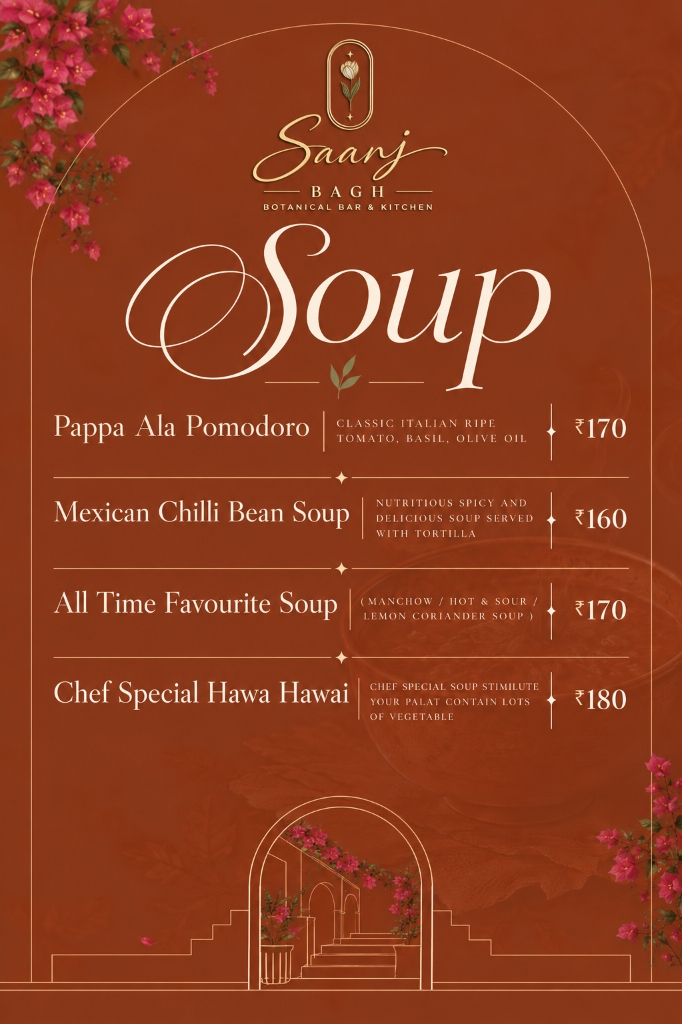
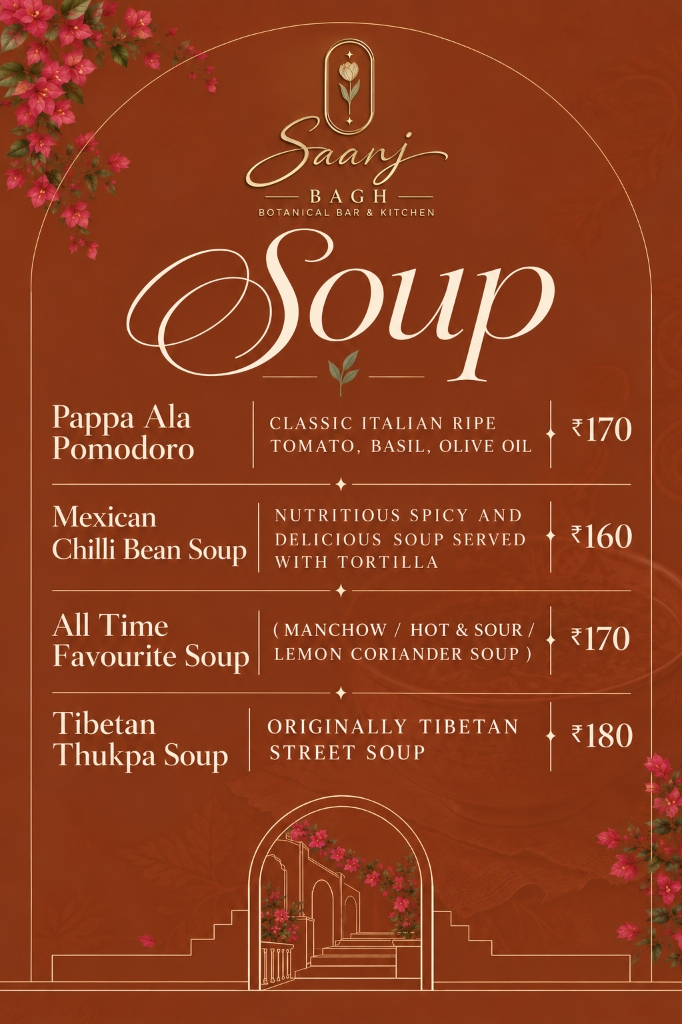
Update menu sequence to Food Beverage Bar Cocktail and update Soup page

diff --git a/index.html b/index.html
@@ -20,7 +20,7 @@
     }
   </script>
   <link rel="icon" type="image/jpeg" href="assets/images/saanj-bagh-logo.jpg">
-  <link rel="stylesheet" href="styles.css?v=20261021d">
+  <link rel="stylesheet" href="styles.css?v=20261021f">
   <script>
     // Early Synchronous View Routing Detector (prevents visual flashing)
     (function() {
@@ -42,7 +42,7 @@
        ============================================================ -->
   <main class="menu-viewport" id="menuViewport">
     
-    <!-- Luxury Saanj Bagh 4-Way Menu Switcher: FOOD MENU | BAR MENU | COCKTAIL MENU | BEVERAGES -->
+    <!-- Luxury Saanj Bagh 4-Way Menu Switcher: FOOD MENU | BEVERAGES | BAR MENU | COCKTAIL MENU -->
     <nav class="menu-switcher-nav" aria-label="Menu experience selector">
       <div class="menu-switcher-pill" role="tablist">
         <button class="menu-switch-btn active" id="btnFoodMenu" role="tab" aria-selected="true" type="button">
@@ -50,6 +50,11 @@
           <span class="switch-label">FOOD MENU</span>
         </button>
         <div class="switch-divider switch-divider-food" aria-hidden="true"></div>
+        <button class="menu-switch-btn" id="btnBeveragesMenu" role="tab" aria-selected="false" type="button">
+          <span class="switch-bullet" aria-hidden="true">✦</span>
+          <span class="switch-label">BEVERAGES</span>
+        </button>
+        <div class="switch-divider switch-divider-beverages" aria-hidden="true"></div>
         <button class="menu-switch-btn" id="btnBarMenu" role="tab" aria-selected="false" type="button">
           <span class="switch-bullet" aria-hidden="true">✦</span>
           <span class="switch-label">BAR MENU</span>
@@ -58,11 +63,6 @@
         <button class="menu-switch-btn" id="btnCocktailMenu" role="tab" aria-selected="false" type="button">
           <span class="switch-bullet" aria-hidden="true">✦</span>
           <span class="switch-label">COCKTAIL MENU</span>
-        </button>
-        <div class="switch-divider switch-divider-cocktail" aria-hidden="true"></div>
-        <button class="menu-switch-btn" id="btnBeveragesMenu" role="tab" aria-selected="false" type="button">
-          <span class="switch-bullet" aria-hidden="true">✦</span>
-          <span class="switch-label">BEVERAGES</span>
         </button>
       </div>
     </nav>
@@ -206,7 +206,7 @@
           
           <!-- Soup Menu Replacement Artwork -->
           <img 
-            src="assets/images/soup.jpg" 
+            src="assets/images/soup.jpg?v=20261021e" 
             alt="Saanj Bagh — Botanical Bar & Kitchen Luxury Soup Menu" 
             class="menu-artwork-img"
             id="soupArtwork"
@@ -718,8 +718,8 @@
         <span>Price: ₹170</span>
       </article>
       <article>
-        <h3>04 — Chef's Special: Hawa Hawai</h3>
-        <p>A chef's special soup featuring a generous medley of vegetables.</p>
+        <h3>04 — Tibetan Thukpa Soup</h3>
+        <p>Originally Tibetan street soup.</p>
         <span>Price: ₹180</span>
       </article>
     </section>
@@ -1157,6 +1157,59 @@
       </article>
     </section>
 
+    <!-- Beverages Menu Semantic Content -->
+    <section aria-label="Beverages Menu — Coffee, Shakes, Smoothies &amp; Refreshments">
+      <h2>Saanj Bagh — Beverages Menu</h2>
+
+      <h3>Hot Coffee</h3>
+      <article><p>Classic Espresso — ₹149 (Arabica Coffee Beans, Water)</p></article>
+      <article><p>Americano — ₹199 (Arabica Coffee Beans, Hot Water)</p></article>
+      <article><p>Cortado — ₹219 (Espresso, Steamed Milk)</p></article>
+      <article><p>Flat White — ₹219 (Double Espresso, Micro-foam Milk)</p></article>
+      <article><p>Cappuccino — ₹199 (Espresso, Steamed Milk, Milk Foam)</p></article>
+      <article><p>Café Latte — ₹199 (Espresso, Steamed Milk)</p></article>
+      <article><p>Vanilla Bean Latte — ₹249 (Espresso, Milk, Vanilla Bean Syrup)</p></article>
+      <article><p>Dark Chocolate Mocha — ₹249 (Espresso, Milk, Dark Chocolate Sauce)</p></article>
+
+      <h3>Cold Coffee</h3>
+      <article><p>Iced Americano — ₹249 (Espresso, Cold Water, Ice)</p></article>
+      <article><p>Classic Cold Brew — ₹349 (Coarse Ground Coffee, Filtered Water, Ice)</p></article>
+      <article><p>Nitro Cold Brew — ₹349 (Cold Brew Coffee, Nitrogen Gas)</p></article>
+      <article><p>Iced Caramel Macchiato — ₹349 (Espresso, Milk, Ice, Caramel Sauce)</p></article>
+      <article><p>Iced Hazelnut Latte — ₹349 (Espresso, Cold Milk, Ice, Hazelnut Syrup)</p></article>
+      <article><p>Vietnamese Iced Coffee — ₹349 (Dark Roast Coffee, Condensed Milk, Ice)</p></article>
+      <article><p>Affogato — ₹349 (Double Espresso, Vanilla Ice Cream)</p></article>
+
+      <h3>Shakes</h3>
+      <article><p>Vanilla Bean Shake — ₹349 (Vanilla Ice Cream, Whole Milk)</p></article>
+      <article><p>Double Chocolate Fudge Shake — ₹349 (Chocolate Ice Cream, Milk, Hot Fudge)</p></article>
+      <article><p>Fresh Strawberry Shake — ₹349 (Strawberry Ice Cream, Milk, Real Strawberries)</p></article>
+      <article><p>Oreo Cookies &amp; Cream Shake — ₹349 (Vanilla Ice Cream, Milk, Oreo Cookies)</p></article>
+      <article><p>Mango Shake — ₹349 (Vanilla Ice Cream, Milk, Mango Puree)</p></article>
+      <article><p>Saanjh Bagh Signature Royal Shake — ₹349 (Vanilla Ice Cream, Milk, Saffron, Dates, Almonds)</p></article>
+      <article><p>Salted Caramel Pretzel Shake — ₹349 (Vanilla Ice Cream, Milk, Caramel, Sea Salt, Pretzels)</p></article>
+      <article><p>Nutella Hazelnut Shake — ₹349 (Chocolate Ice Cream, Milk, Nutella, Roasted Hazelnuts)</p></article>
+      <article><p>Lotus Biscoff Shake — ₹349 (Vanilla Ice Cream, Milk, Biscoff Spread, Crumbs)</p></article>
+      <article><p>Brownie Batter Shake — ₹349 (Chocolate Ice Cream, Milk, Brownie Chunks, Chocolate)</p></article>
+
+      <h3>Smoothies</h3>
+      <article><p>Mixed Berry Blast — ₹349 (Strawberries, Blueberries, Yogurt, Honey, Almond Milk)</p></article>
+      <article><p>Tropical Mango &amp; Passionfruit — ₹349 (Mango, Passionfruit Pulp, Greek Yogurt, Coconut Water)</p></article>
+      <article><p>Green Detox — ₹349 (Spinach, Green Apple, Kiwi, Mint, Coconut Water)</p></article>
+      <article><p>Banana Oat &amp; Honey — ₹349 (Banana, Rolled Oats, Honey, Cinnamon, Almond Milk)</p></article>
+      <article><p>Piña Colada Smoothie — ₹349 (Pineapple Chunks, Coconut Cream, Banana, Coconut Milk)</p></article>
+
+      <h3>Beverages</h3>
+      <article><p>Mineral Water — ₹149</p></article>
+      <article><p>Coke — ₹149</p></article>
+      <article><p>Thums Up — ₹149</p></article>
+      <article><p>Diet Coke — ₹199</p></article>
+      <article><p>Ginger Ale — ₹149</p></article>
+      <article><p>Tonic Water — ₹149</p></article>
+      <article><p>Red Bull — ₹299</p></article>
+      <article><p>Canned Juice — ₹149</p></article>
+    </section>
+
     <!-- Bar Menu Semantic Content -->
     <section aria-label="Bar Menu — Spirits, Wine & Beer">
       <h2>Saanj Bagh — Bar Menu</h2>
@@ -1276,62 +1329,9 @@
       <article><p>Tennessee Iced Tea (Strong) — ₹675 (Vodka, Rum, Gin, Tequila, Triple Sec, Jack Daniel's, Lemon Juice, Simple, Top with Cola)</p></article>
       <article><p>Hawaiian Iced Tea (Tropical) — ₹999 (Vodka, Rum, Gin, Tequila, Triple Sec, Lemon Juice, Top with Pineapple Juice)</p></article>
     </section>
-
-    <!-- Beverages Menu Semantic Content -->
-    <section aria-label="Beverages Menu — Coffee, Shakes, Smoothies &amp; Refreshments">
-      <h2>Saanj Bagh — Beverages Menu</h2>
-
-      <h3>Hot Coffee</h3>
-      <article><p>Classic Espresso — ₹149 (Arabica Coffee Beans, Water)</p></article>
-      <article><p>Americano — ₹199 (Arabica Coffee Beans, Hot Water)</p></article>
-      <article><p>Cortado — ₹219 (Espresso, Steamed Milk)</p></article>
-      <article><p>Flat White — ₹219 (Double Espresso, Micro-foam Milk)</p></article>
-      <article><p>Cappuccino — ₹199 (Espresso, Steamed Milk, Milk Foam)</p></article>
-      <article><p>Café Latte — ₹199 (Espresso, Steamed Milk)</p></article>
-      <article><p>Vanilla Bean Latte — ₹249 (Espresso, Milk, Vanilla Bean Syrup)</p></article>
-      <article><p>Dark Chocolate Mocha — ₹249 (Espresso, Milk, Dark Chocolate Sauce)</p></article>
-
-      <h3>Cold Coffee</h3>
-      <article><p>Iced Americano — ₹249 (Espresso, Cold Water, Ice)</p></article>
-      <article><p>Classic Cold Brew — ₹349 (Coarse Ground Coffee, Filtered Water, Ice)</p></article>
-      <article><p>Nitro Cold Brew — ₹349 (Cold Brew Coffee, Nitrogen Gas)</p></article>
-      <article><p>Iced Caramel Macchiato — ₹349 (Espresso, Milk, Ice, Caramel Sauce)</p></article>
-      <article><p>Iced Hazelnut Latte — ₹349 (Espresso, Cold Milk, Ice, Hazelnut Syrup)</p></article>
-      <article><p>Vietnamese Iced Coffee — ₹349 (Dark Roast Coffee, Condensed Milk, Ice)</p></article>
-      <article><p>Affogato — ₹349 (Double Espresso, Vanilla Ice Cream)</p></article>
-
-      <h3>Shakes</h3>
-      <article><p>Vanilla Bean Shake — ₹349 (Vanilla Ice Cream, Whole Milk)</p></article>
-      <article><p>Double Chocolate Fudge Shake — ₹349 (Chocolate Ice Cream, Milk, Hot Fudge)</p></article>
-      <article><p>Fresh Strawberry Shake — ₹349 (Strawberry Ice Cream, Milk, Real Strawberries)</p></article>
-      <article><p>Oreo Cookies &amp; Cream Shake — ₹349 (Vanilla Ice Cream, Milk, Oreo Cookies)</p></article>
-      <article><p>Mango Shake — ₹349 (Vanilla Ice Cream, Milk, Mango Puree)</p></article>
-      <article><p>Saanjh Bagh Signature Royal Shake — ₹349 (Vanilla Ice Cream, Milk, Saffron, Dates, Almonds)</p></article>
-      <article><p>Salted Caramel Pretzel Shake — ₹349 (Vanilla Ice Cream, Milk, Caramel, Sea Salt, Pretzels)</p></article>
-      <article><p>Nutella Hazelnut Shake — ₹349 (Chocolate Ice Cream, Milk, Nutella, Roasted Hazelnuts)</p></article>
-      <article><p>Lotus Biscoff Shake — ₹349 (Vanilla Ice Cream, Milk, Biscoff Spread, Crumbs)</p></article>
-      <article><p>Brownie Batter Shake — ₹349 (Chocolate Ice Cream, Milk, Brownie Chunks, Chocolate)</p></article>
-
-      <h3>Smoothies</h3>
-      <article><p>Mixed Berry Blast — ₹349 (Strawberries, Blueberries, Yogurt, Honey, Almond Milk)</p></article>
-      <article><p>Tropical Mango &amp; Passionfruit — ₹349 (Mango, Passionfruit Pulp, Greek Yogurt, Coconut Water)</p></article>
-      <article><p>Green Detox — ₹349 (Spinach, Green Apple, Kiwi, Mint, Coconut Water)</p></article>
-      <article><p>Banana Oat &amp; Honey — ₹349 (Banana, Rolled Oats, Honey, Cinnamon, Almond Milk)</p></article>
-      <article><p>Piña Colada Smoothie — ₹349 (Pineapple Chunks, Coconut Cream, Banana, Coconut Milk)</p></article>
-
-      <h3>Beverages</h3>
-      <article><p>Mineral Water — ₹149</p></article>
-      <article><p>Coke — ₹149</p></article>
-      <article><p>Thums Up — ₹149</p></article>
-      <article><p>Diet Coke — ₹199</p></article>
-      <article><p>Ginger Ale — ₹149</p></article>
-      <article><p>Tonic Water — ₹149</p></article>
-      <article><p>Red Bull — ₹299</p></article>
-      <article><p>Canned Juice — ₹149</p></article>
-    </section>
   </div>
 
-  <script src="app.js?v=20261021d"></script>
+  <script src="app.js?v=20261021f"></script>
 </body>
 </html>
 

diff --git a/app.js b/app.js
@@ -1060,9 +1060,9 @@ document.addEventListener('DOMContentLoaded', () => {
     }
 
     if (e.key.toLowerCase() === 'm' && !e.ctrlKey && !e.metaKey) {
-      if (currentMenu === 'food') switchMenu('bar');
+      if (currentMenu === 'food') switchMenu('beverages');
+      else if (currentMenu === 'beverages') switchMenu('bar');
       else if (currentMenu === 'bar') switchMenu('cocktail');
-      else if (currentMenu === 'cocktail') switchMenu('beverages');
       else switchMenu('food');
     }
 

diff --git a/styles.css b/styles.css
@@ -2875,7 +2875,7 @@ body[data-active-menu="beverages"] .floating-expand-btn,
 body[data-view-mode="bar-cocktail"] #btnFoodMenu,
 body[data-view-mode="bar-cocktail"] .switch-divider-food,
 body[data-view-mode="bar-cocktail"] #btnBeveragesMenu,
-body[data-view-mode="bar-cocktail"] .switch-divider-cocktail {
+body[data-view-mode="bar-cocktail"] .switch-divider-beverages {
   display: none !important;
 }
 
